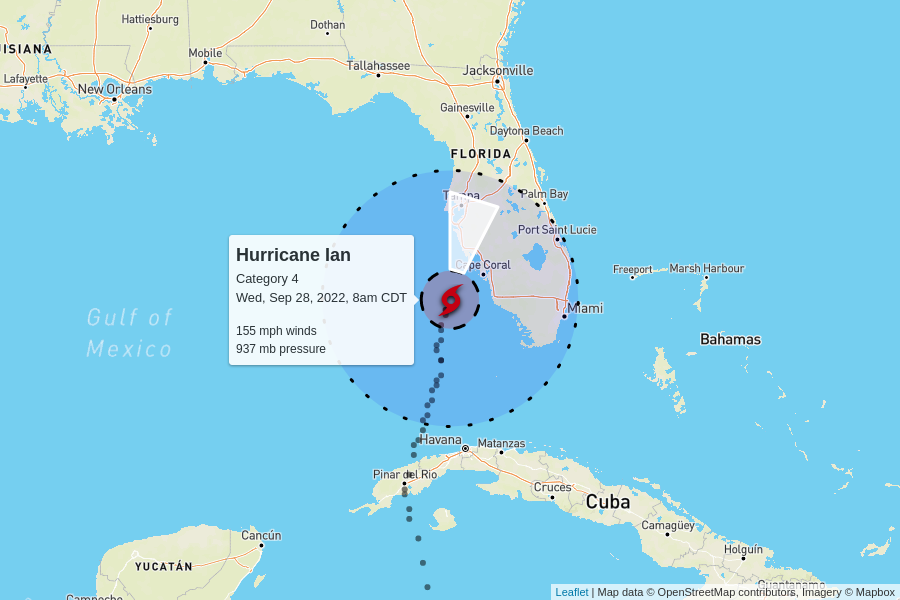
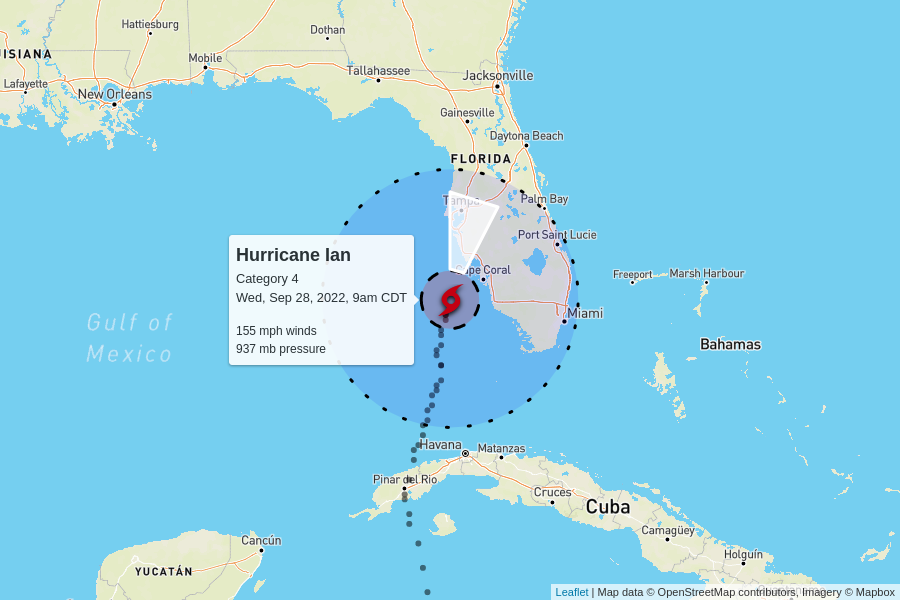
automatic update

diff --git a/docs/index.html b/docs/index.html
@@ -100,7 +100,7 @@
         <td colspan="6" class="storm category-4" >
           <h2>
             Hurricane Ian - Category 4
-            <p class="updated">last updated <span data-time>2022-09-28T13:00:00.000Z</span></p>
+            <p class="updated">last updated <span data-time>2022-09-28T14:00:00.000Z</span></p>
           </h2>
         </td>
       </tr>
